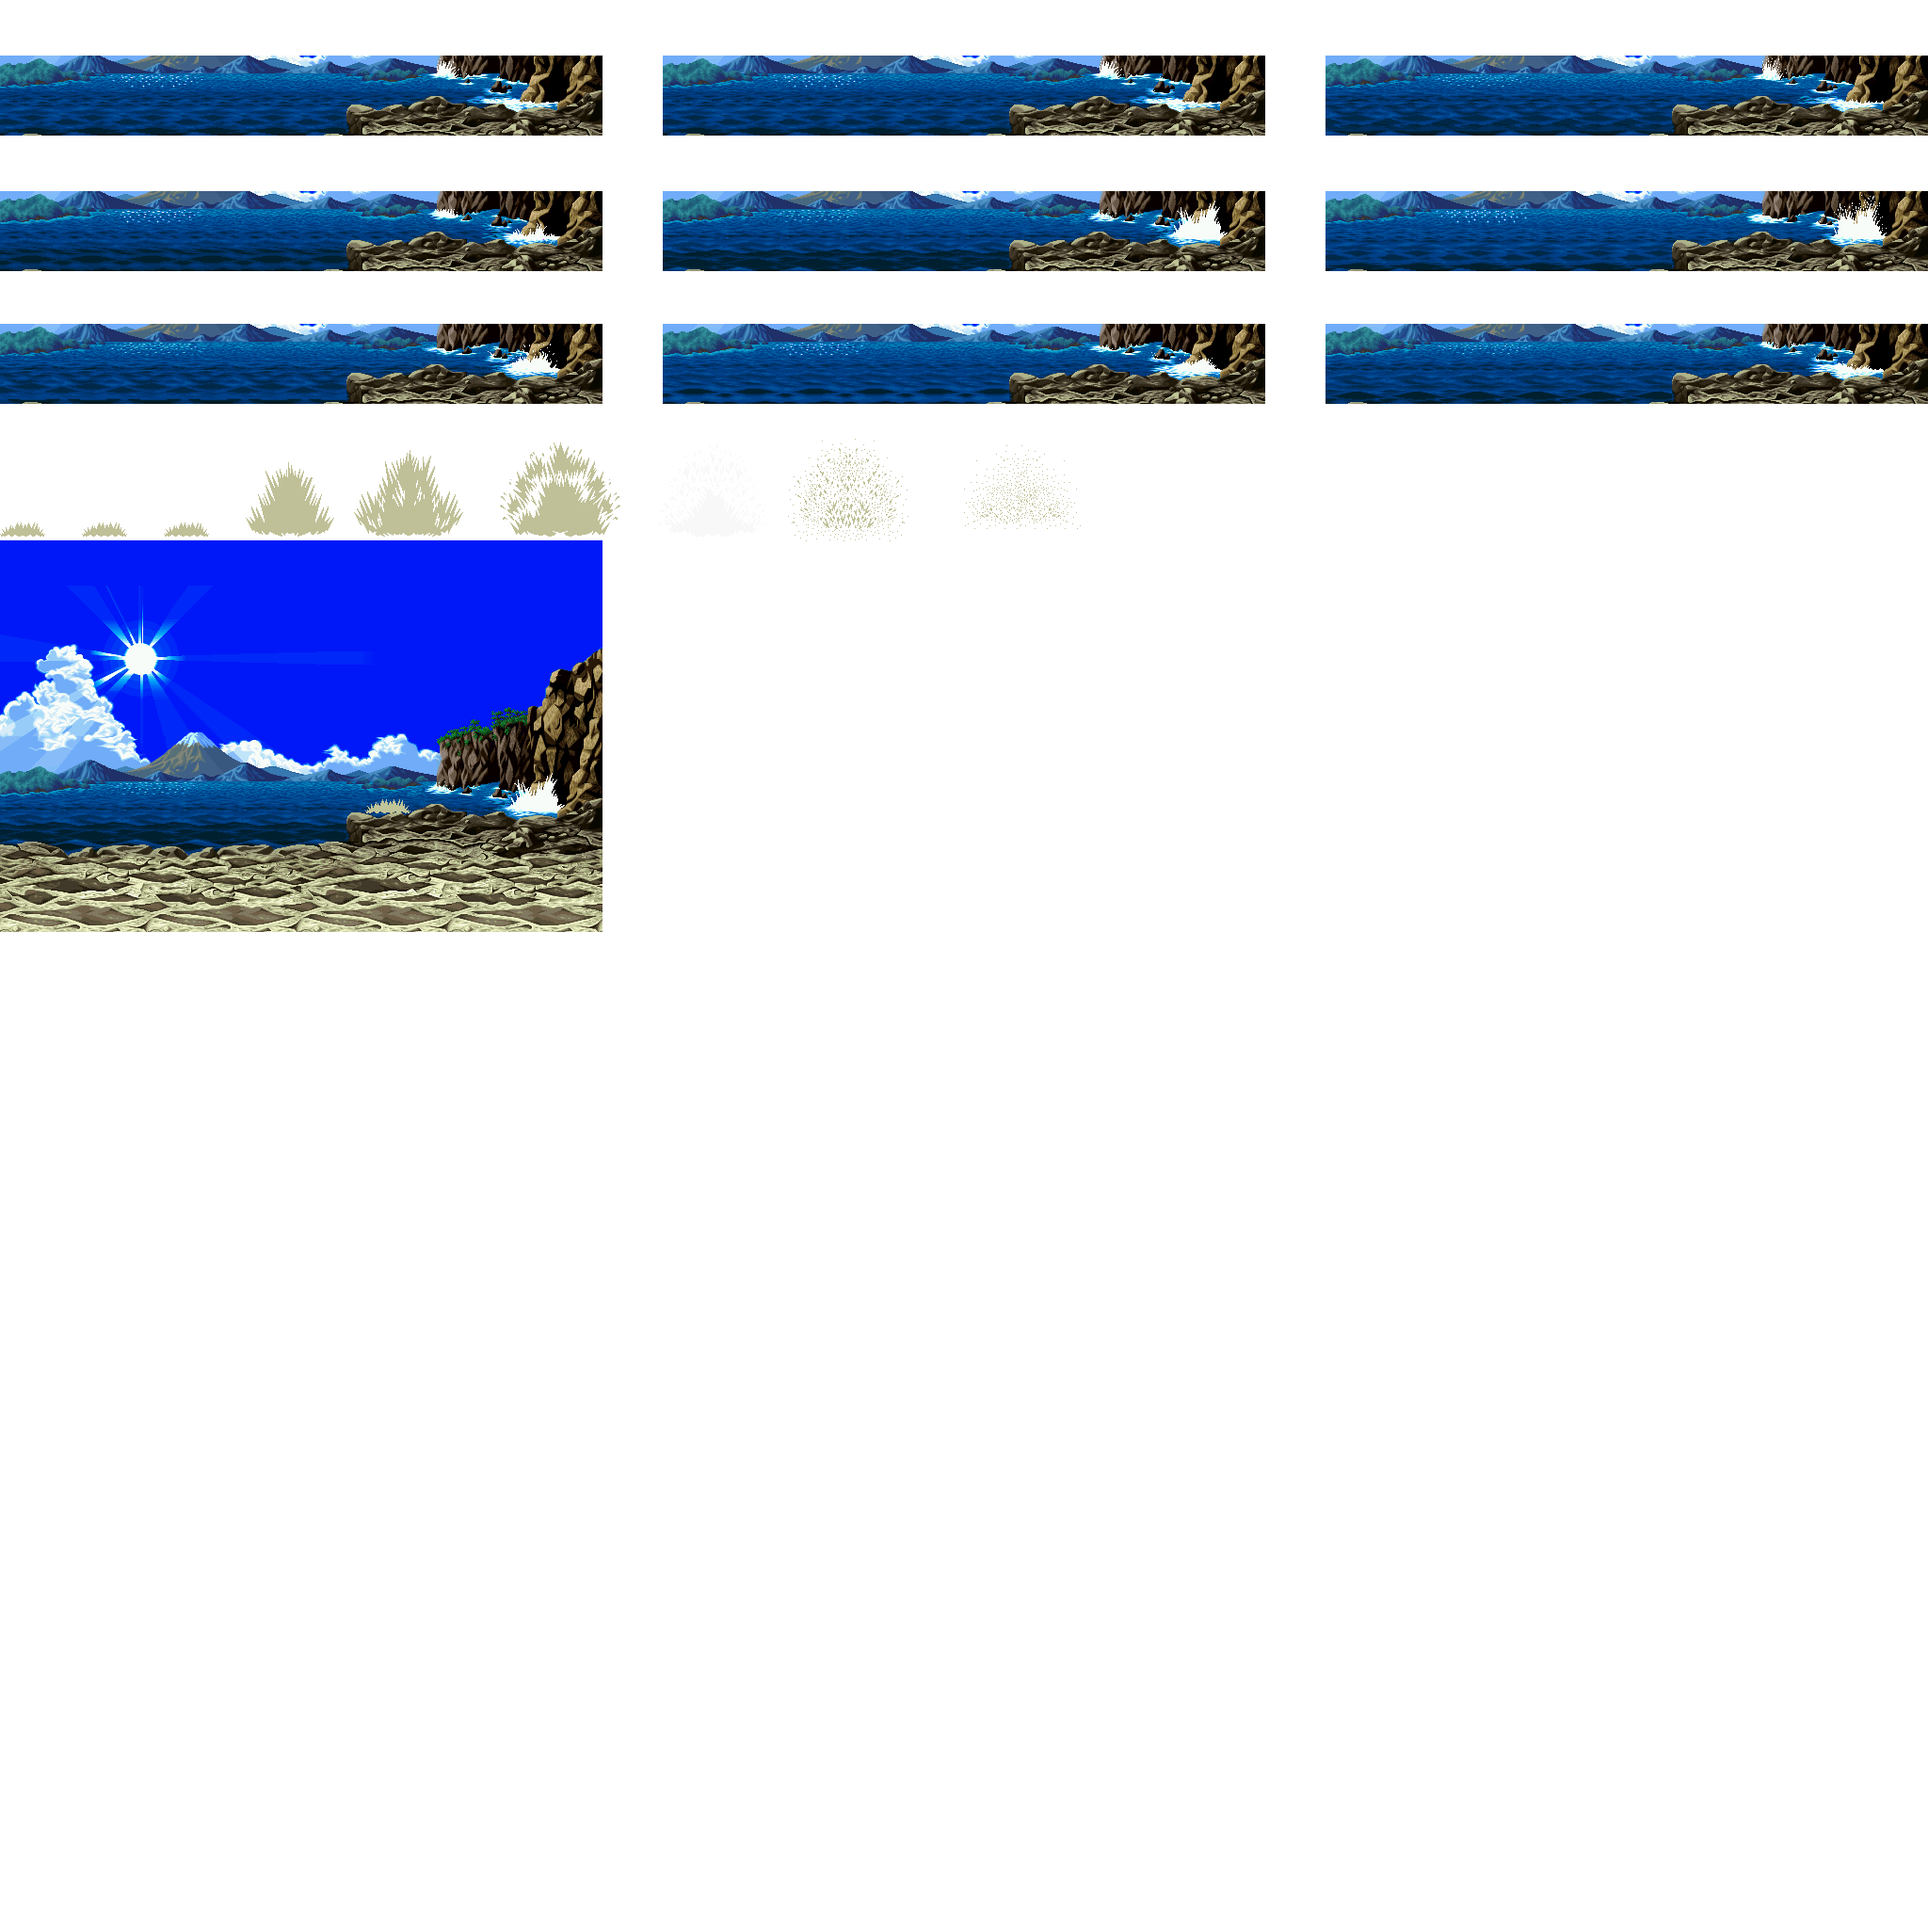
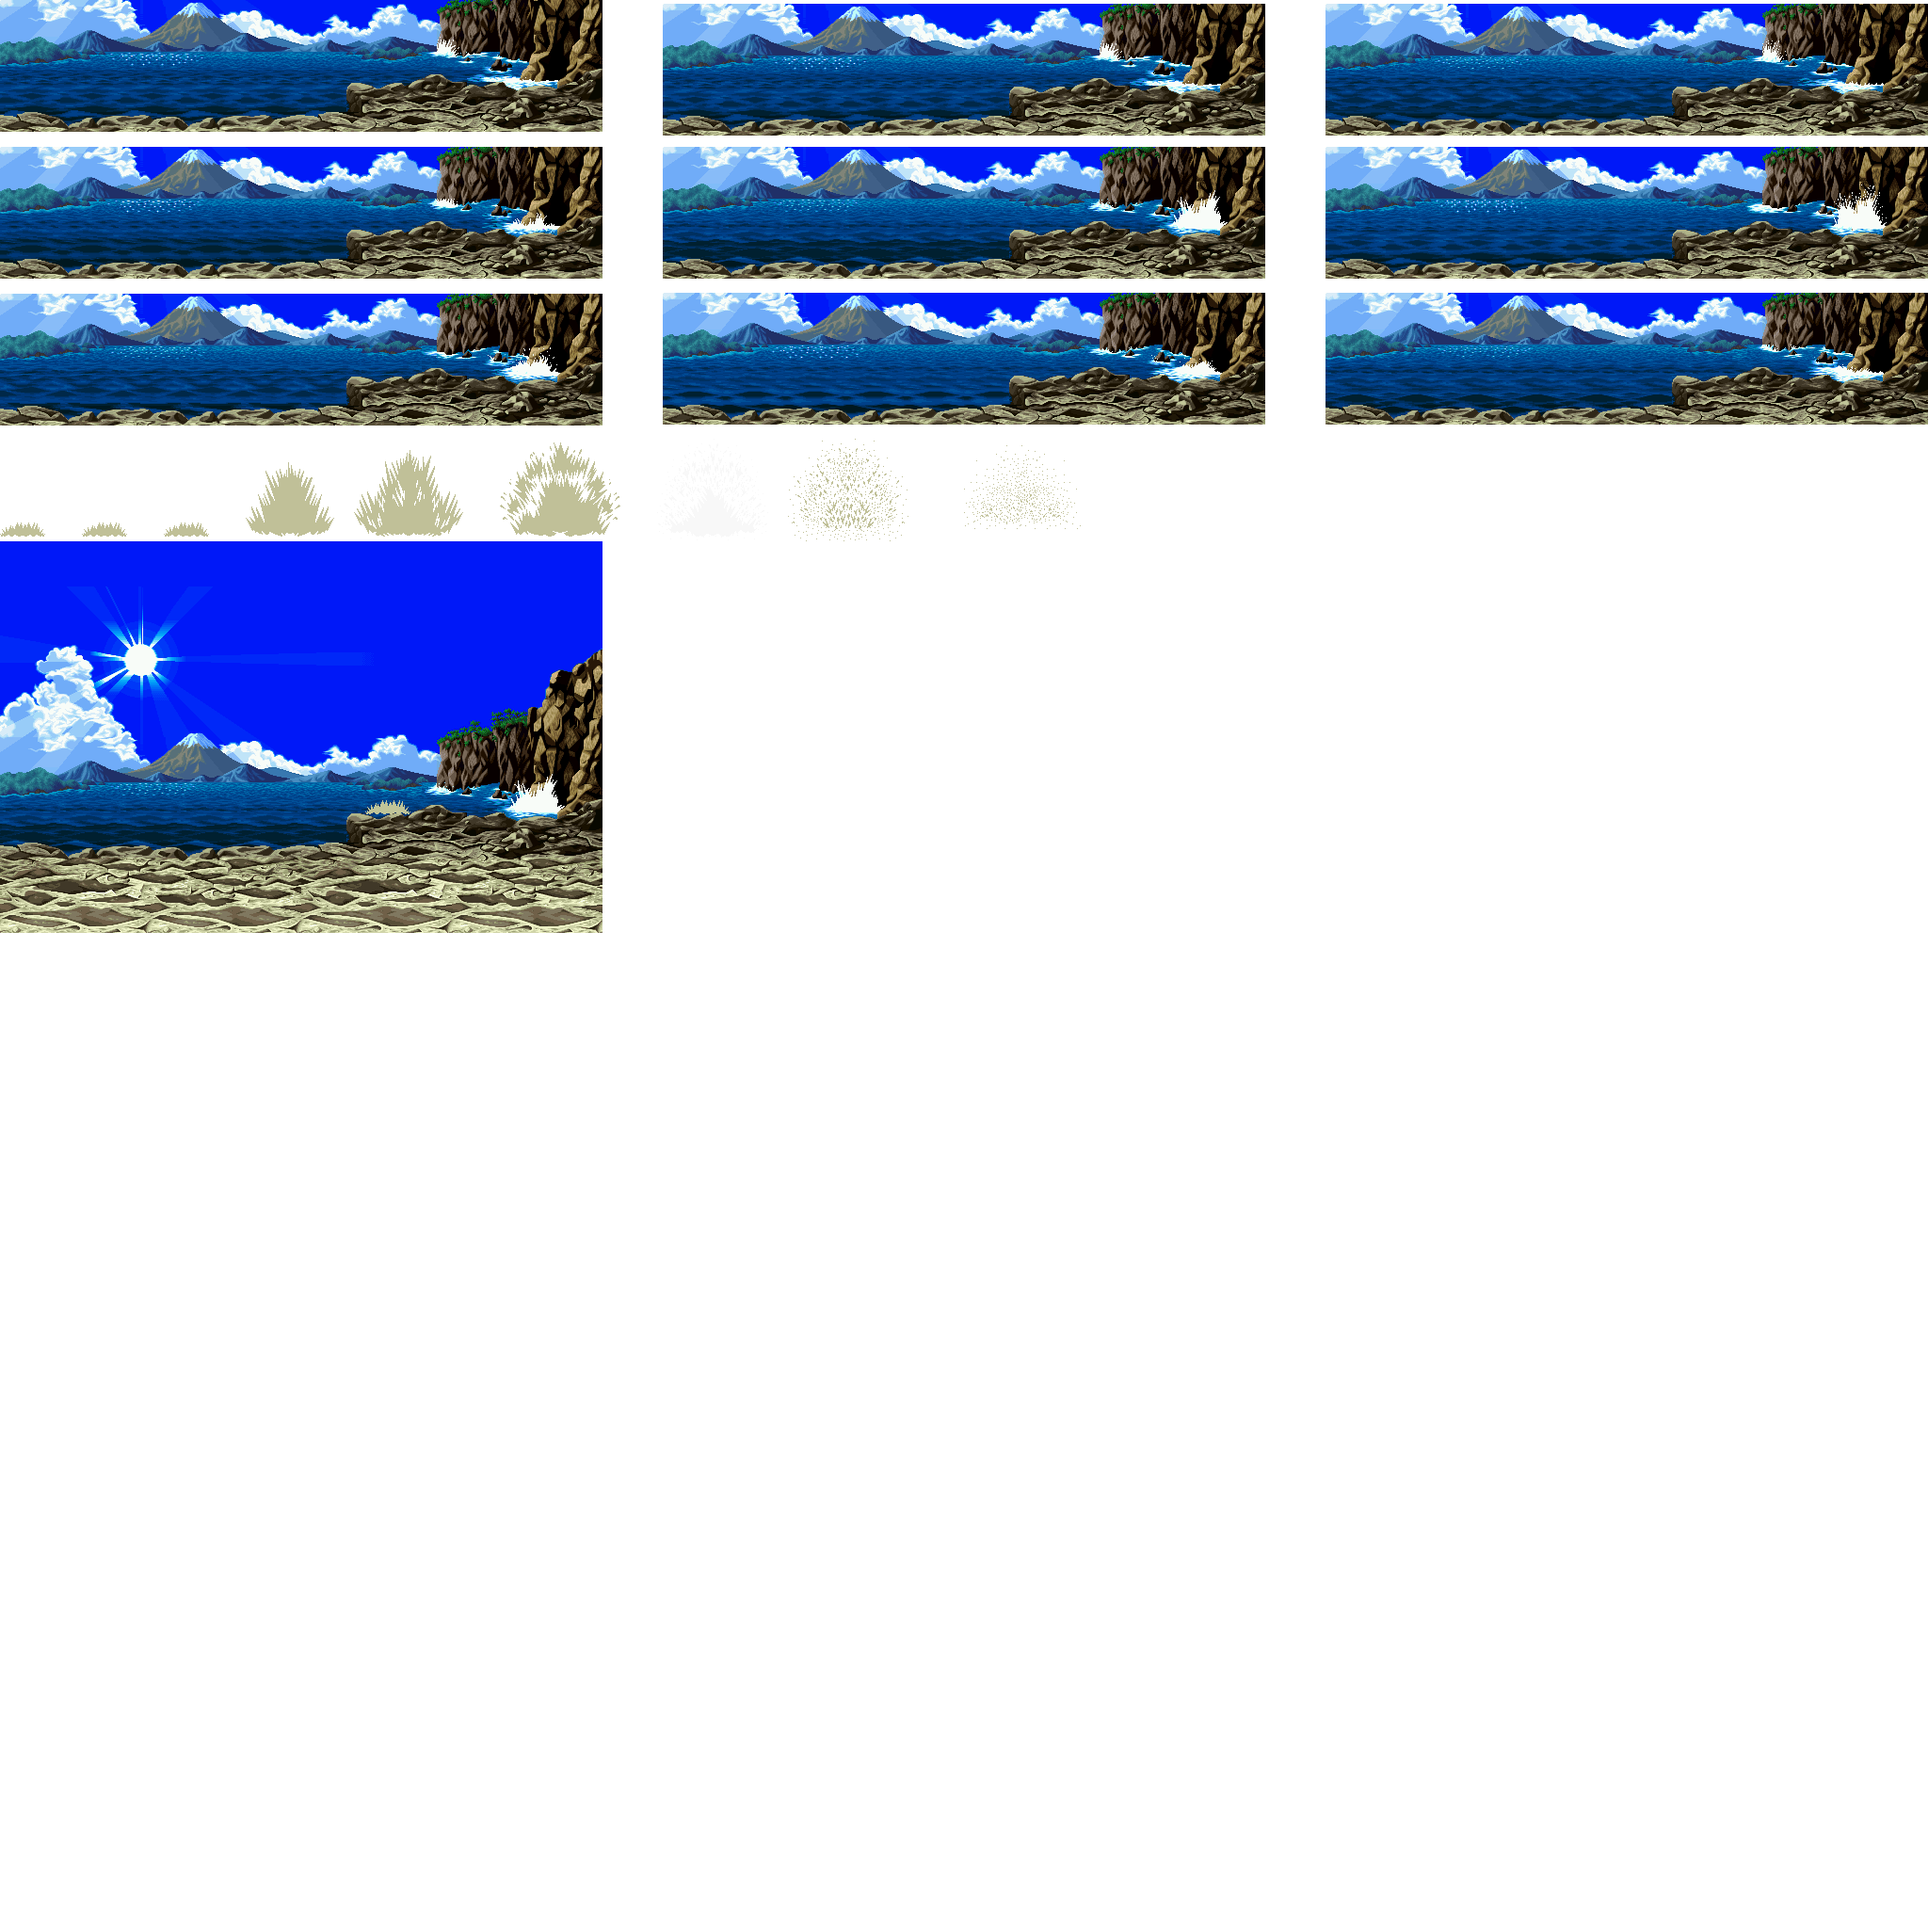
def

diff --git a/SDL4_Handout/ModuleBackground.cpp b/SDL4_Handout/ModuleBackground.cpp
@@ -13,7 +13,7 @@ ModuleBackground::ModuleBackground()
 
 	// splash animation
 
-	splash1.PushBack({ 0, 0, 15, 15 }, 0.01);
+	splash1.PushBack({ 0, 0, 0, 0 }, 0.01);
 	splash1.PushBack({ 0, 465, 50, 105 }, 0.2);
 	splash1.PushBack({ 261, 465, 95, 105 }, 0.2);
 	splash1.PushBack({ 376, 465, 116, 105 }, 0.2);
@@ -22,7 +22,7 @@ ModuleBackground::ModuleBackground()
 	splash1.PushBack({ 836, 465, 129, 105 }, 0.2);
 	splash1.PushBack({ 1023, 465, 126, 105 }, 0.2);
 
-	splash2.PushBack({ 0, 0, 15, 15 }, 0.007);
+	splash2.PushBack({ 0, 0, 0, 0 }, 0.007);
 	splash2.PushBack({ 0, 465, 50, 105 }, 0.2);
 	splash2.PushBack({ 261, 465, 95, 105 }, 0.2);
 	splash2.PushBack({ 376, 465, 116, 105 }, 0.2);
@@ -31,7 +31,7 @@ ModuleBackground::ModuleBackground()
 	splash2.PushBack({ 836, 465, 129, 105 }, 0.2);
 	splash2.PushBack({ 1023, 465, 126, 105 }, 0.2);
 
-	splash3.PushBack({ 0, 0, 15, 15 }, 0.005);
+	splash3.PushBack({ 0, 0, 0, 0 }, 0.005);
 	splash3.PushBack({ 0, 465, 50, 105 }, 0.2);
 	splash3.PushBack({ 261, 465, 95, 105 }, 0.2);
 	splash3.PushBack({ 376, 465, 116, 105 }, 0.2);
@@ -39,7 +39,7 @@ ModuleBackground::ModuleBackground()
 	splash3.PushBack({ 698, 465, 119, 105 }, 0.2);
 	splash3.PushBack({ 836, 465, 129, 105 }, 0.2);
 	splash3.PushBack({ 1023, 465, 126, 105 }, 0.2);
-
+	
 
 	// ground
 	ground.x = 0;
@@ -48,15 +48,15 @@ ModuleBackground::ModuleBackground()
 	ground.h = 416;
 
 	 //sea animation
-	sea.PushBack({ 0, 58, 640, 85},0.08f);
-	sea.PushBack({704, 58, 640, 85 }, 0.08f);
-	sea.PushBack({ 1408, 58, 640, 85 }, 0.08f);
-	sea.PushBack({ 0, 202, 640, 85 }, 0.08f);
-	sea.PushBack({ 704, 202, 640, 85 }, 0.08f);
-	sea.PushBack({ 1408, 202, 640, 85 }, 0.08f);
-	sea.PushBack({ 0, 343, 640, 85 }, 0.08f);
-	sea.PushBack({ 704, 343, 640, 85 }, 0.08f);
-	sea.PushBack({ 1408, 343, 640, 85 }, 0.08f);
+	sea.PushBack({ 0, 0, 640, 140 }, 0.08f);
+	sea.PushBack({ 704, 4, 640, 140 }, 0.08f);
+	sea.PushBack({ 1408, 4, 640, 140 }, 0.08f);
+	sea.PushBack({ 0, 156, 640, 140 }, 0.08f);
+	sea.PushBack({ 704, 156, 640, 140 }, 0.08f);
+	sea.PushBack({ 1408, 156, 640, 140 }, 0.08f);
+	sea.PushBack({ 0, 312, 630, 140 }, 0.08f);
+	sea.PushBack({ 704, 311, 640, 140 }, 0.08f);
+	sea.PushBack({ 1408, 311, 640, 140 }, 0.08f);
 	
 	
 }
@@ -70,7 +70,7 @@ bool ModuleBackground::Start()
 	LOG("Loading background assets");
 	bool ret = true;
 
-	graphics = App->textures->Load("HaohmaruStage.png");
+	graphics = App->textures->Load("haohmaru_stage.png");
 
 	return ret;
 	initializecount();
@@ -103,7 +103,7 @@ update_status ModuleBackground::Update()
 
 	App->render->Blit(graphics, 0, -150, &ground);	
 
-	App->render->Blit(graphics, 0, 87, &(sea.GetCurrentFrame()), 1);
+	App->render->Blit(graphics, 0, 53, &(sea.GetCurrentFrame()), 1);
 
 	App->render->Blit(graphics, 80, /*bounce+*/70, &(splash1.GetCurrentFrame()), 1); // splash
 	
